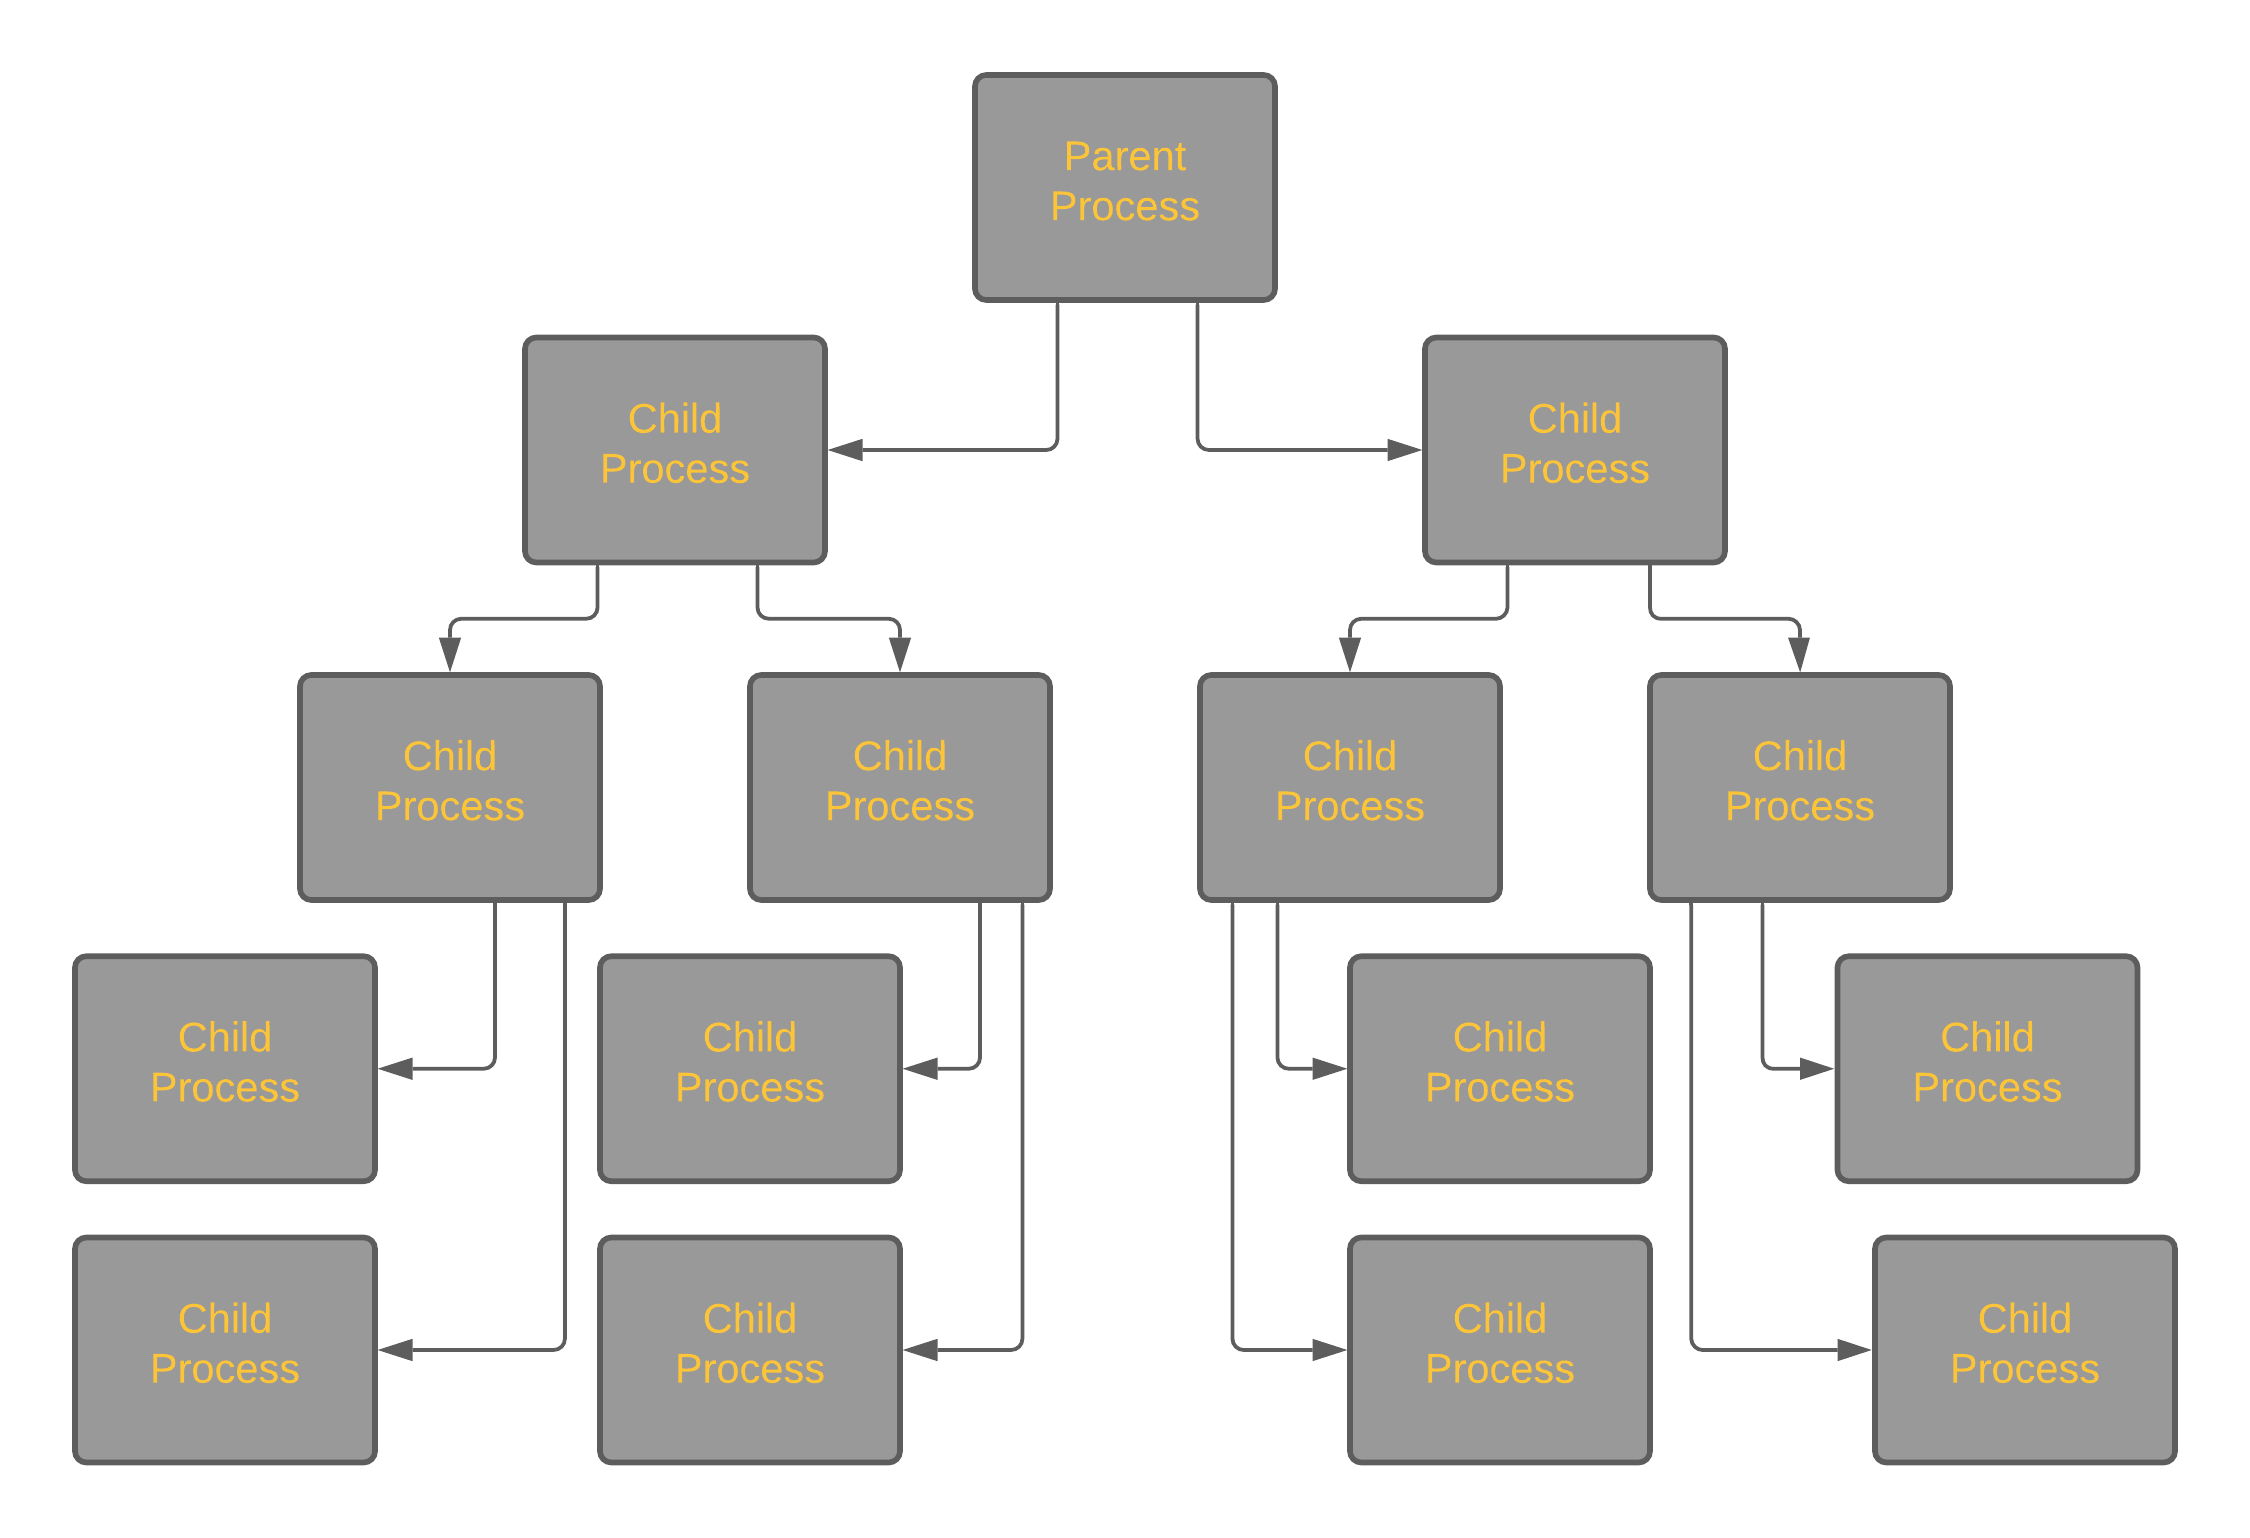
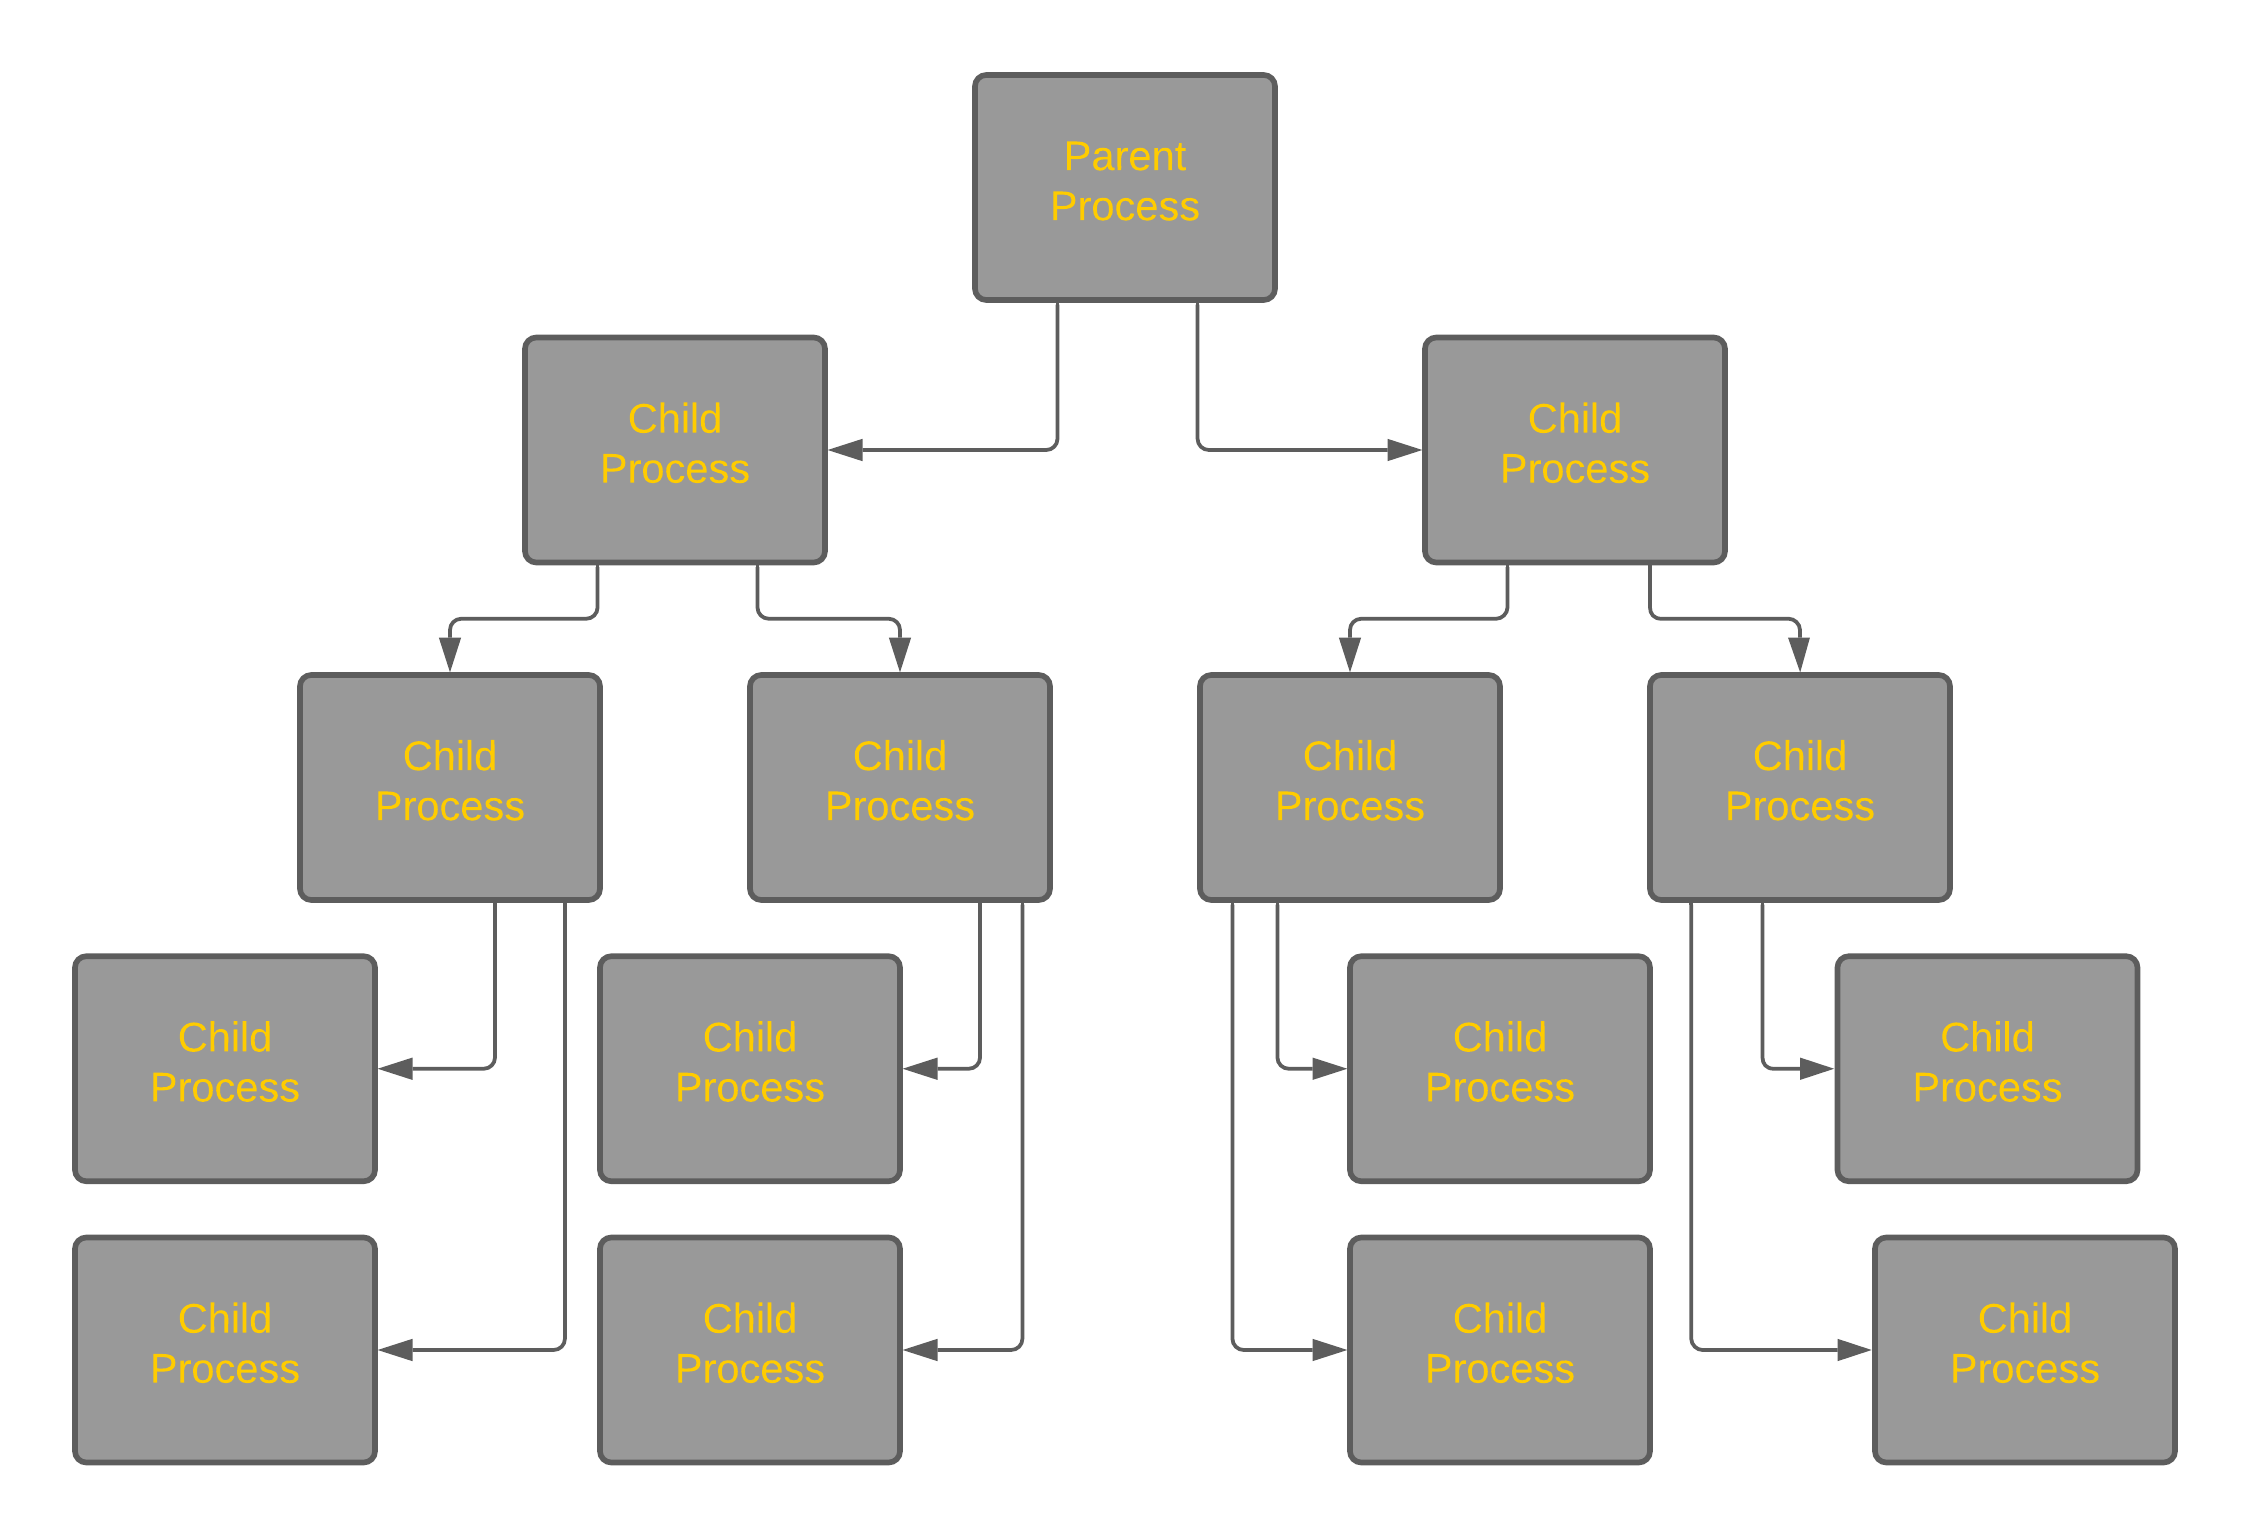
updated image

diff --git a/posts/hardenlinuxcore.md b/posts/hardenlinuxcore.md
@@ -86,7 +86,7 @@ A fork bomb is of what follows: `:(){ :|:& };:`. (DO NOT RUN THIS IN A SHELL)
 This process continuously creates child processes that infinitely spawn their processes, depleting your system of resources. 
 
 
-<img align="center" width="1000" height="800" src="https://raw.githubusercontent.com/mksipe/mksipe/gh-pages/_layouts/assets/Wabbit.png">
+<img align="center" width="900" height="800" src="https://raw.githubusercontent.com/mksipe/mksipe/gh-pages/_layouts/assets/Wabbit.png">
 
 A detailed explanation of how fork bombs work is in [this](https://www.cyberciti.biz/faq/understanding-bash-fork-bomb/) article.
 
